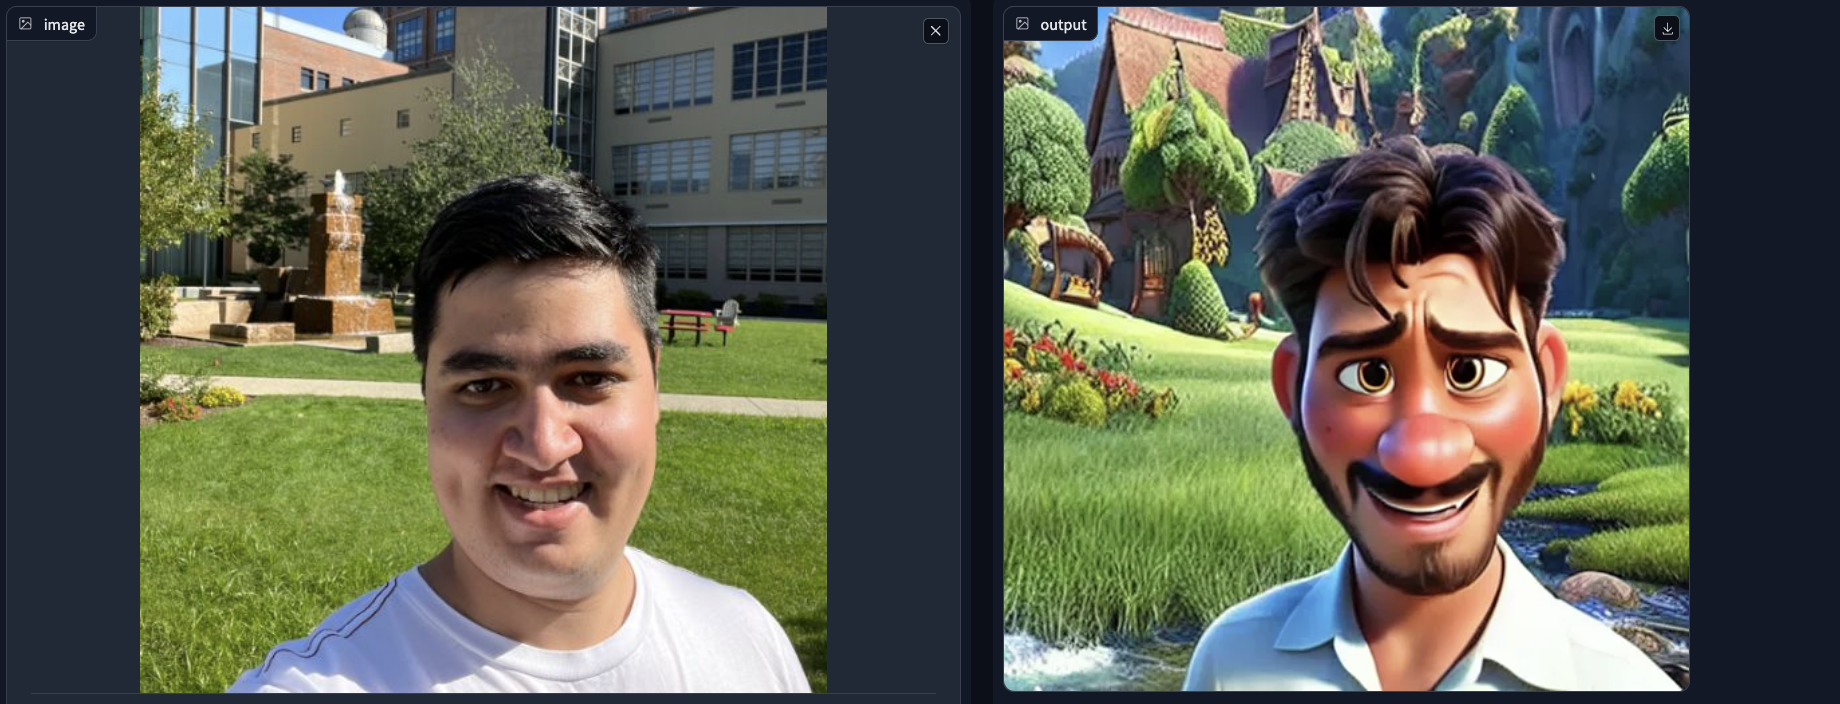
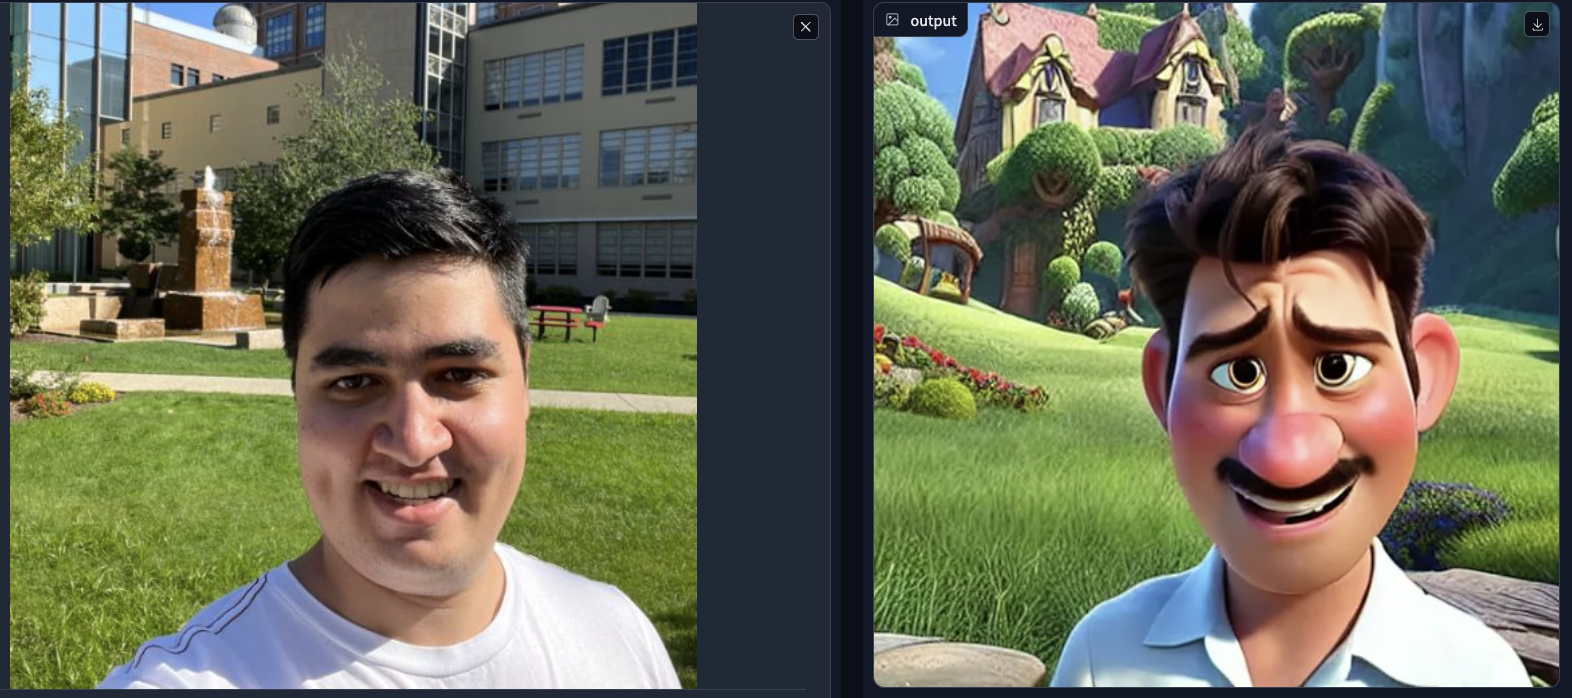
added img2img in README.md

diff --git a/demo/app.py b/demo/app.py
@@ -1,4 +1,3 @@
-import torch
 import gradio as gr
 from functools import partial
 from PIL import Image
@@ -7,9 +6,7 @@ from cartoonify.utils import init_image_to_image_pipeline, predict as _predict
 pipeline = init_image_to_image_pipeline()
 predict = partial(_predict, pipeline)
 
-prompt = gr.Textbox(
-    value="disney style, beautiful, detailed", label="Prompt (max 77 tokens)"
-)
+prompt = gr.Textbox(value="disney style person", label="Prompt (max 77 tokens)")
 negative_prompt = gr.Textbox(
     value="",
     label="Negative prompt (max 77 tokens)",
@@ -34,7 +31,7 @@ random_seed = gr.Number(42, label="Random seed")
 def generate(
     image, prompt, negative_prompt, random_seed, cfg, denoising, denoising_steps
 ):
-    init_image = Image.open(image).convert("RGB")
+    init_image = Image.open(image).convert("RGB").resize((512, 512))
     image = predict(
         pipeline_config={
             "prompt": prompt,
@@ -43,9 +40,6 @@ def generate(
             "guidance_scale": cfg,
             "strength": denoising,
             "num_inference_steps": denoising_steps,
-            "height": 512,
-            "width": 512,
-            "resize_mode": "fill",
         },
         seed=random_seed,
     )[0]

diff --git a/src/cartoonify/utils.py b/src/cartoonify/utils.py
@@ -1,7 +1,6 @@
 from pathlib import Path
 from typing import Any, Dict, Optional, Tuple, TypeAlias, Union
 import torch
-import gradio as gr
 from diffusers import (
     StableDiffusionPipeline,
     StableDiffusionImg2ImgPipeline,
